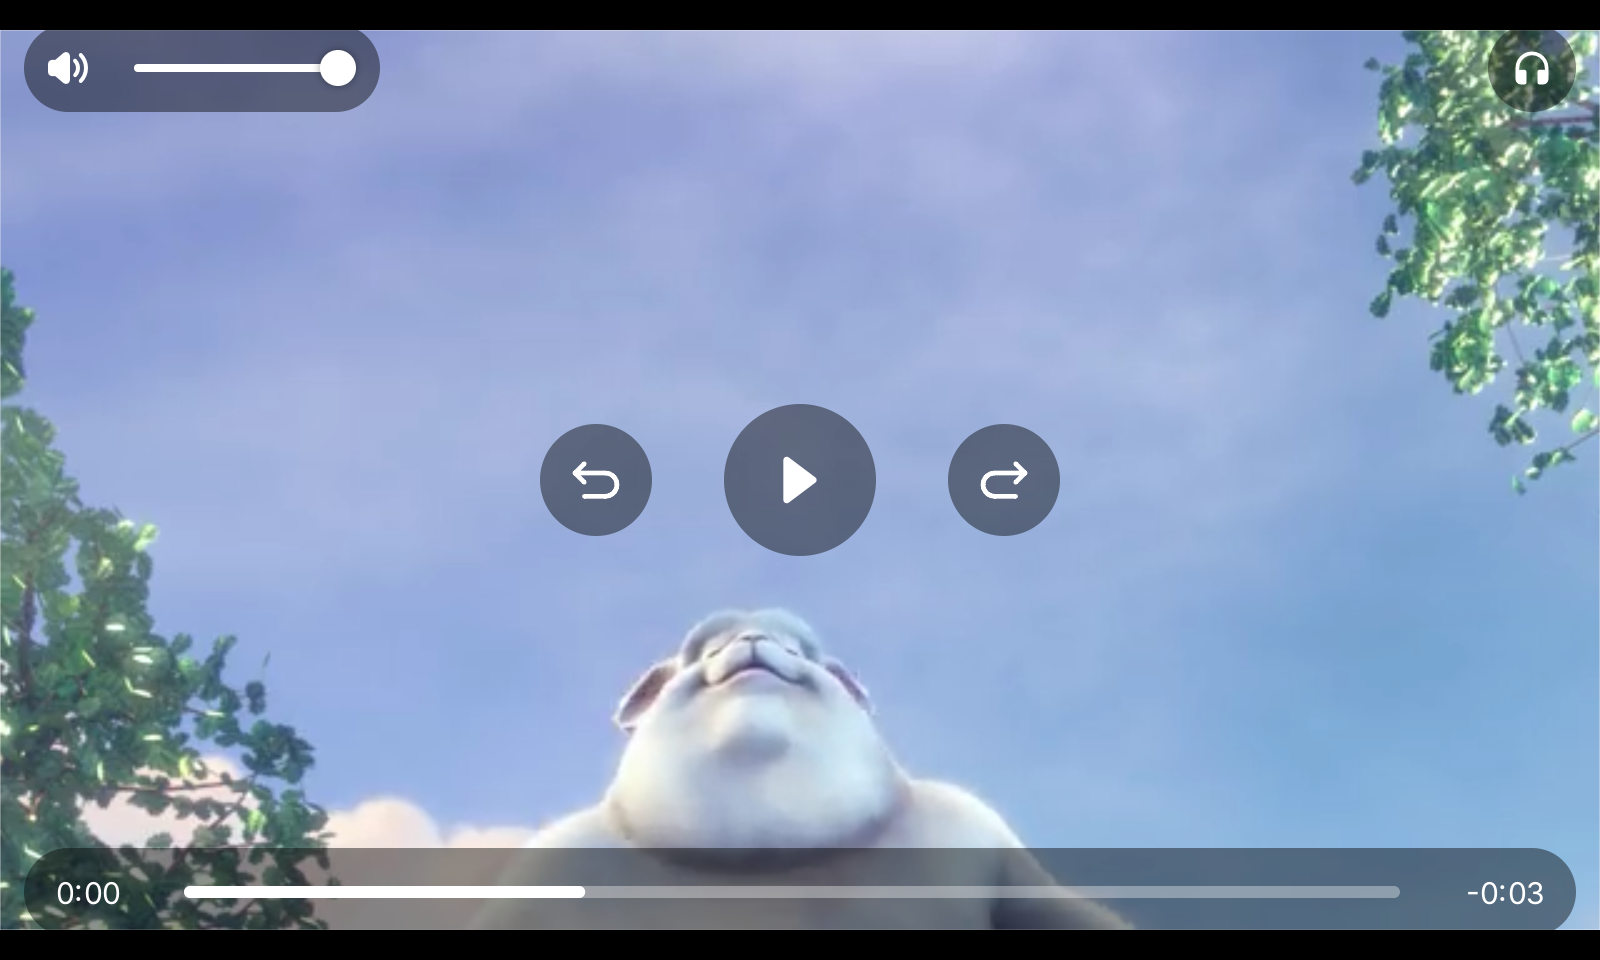
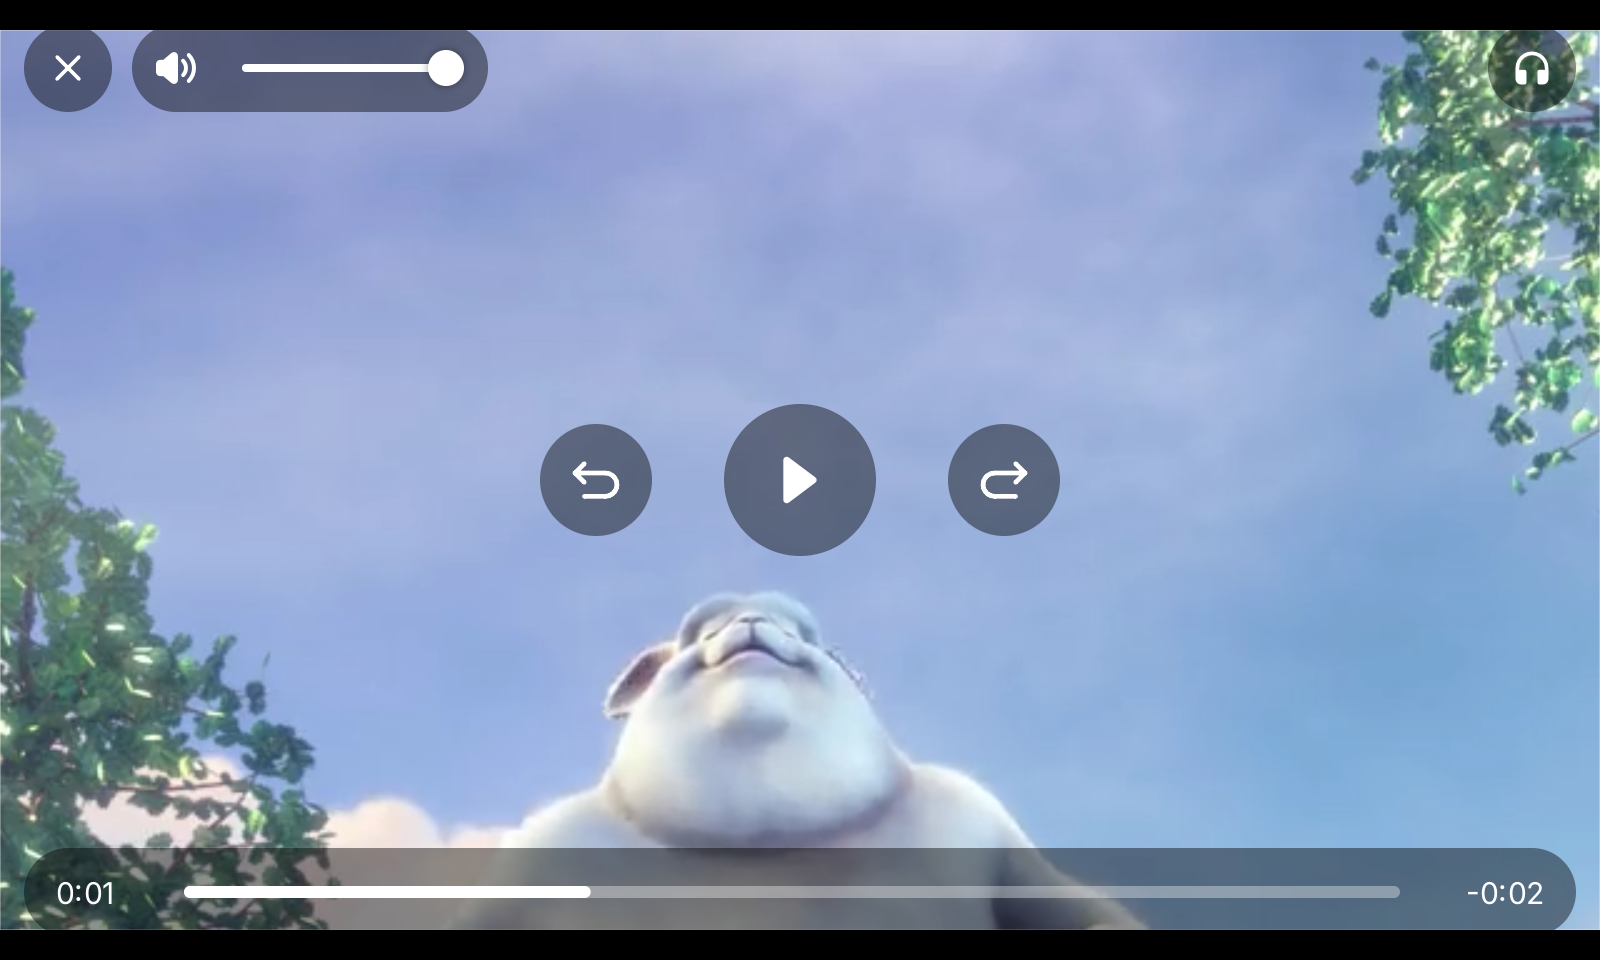
feat(example-video): choose the video in the file picker
The example played a path relative to the repository and so only ran
from a checkout. It now opens with the file picker on the home
directory, or on -dir, listing the videos in it; the close button of
the player goes back there. -sample plays the embedded sample clip,
-file one video directly. A video that cannot be opened is reported
above the picker.

diff --git a/cmd/example-video/main.go b/cmd/example-video/main.go
@@ -2,23 +2,28 @@
 // ui/videoplayer, full window: the program to try on a Raspberry Pi with a
 // five or seven inch touch panel.
 //
-//	go run ./cmd/example-video                        # the clip in video/testdata
-//	go run ./cmd/example-video -file movie.mp4 -hw    # your own, HEVC in hardware on a Pi 5
+//	go run ./cmd/example-video                        # choose a video in your home directory
+//	go run ./cmd/example-video -sample                # the short clip gift brings along
+//	go run ./cmd/example-video -file movie.mp4 -hw    # this one, HEVC in hardware on a Pi 5
+//	go run ./cmd/example-video -dir /media/usb        # choose one on a stick
 //	go run ./cmd/example-video -width 800 -height 480 # the size of a five inch panel
 //
 // It needs the FFmpeg libraries at run time, still without cgo: they are on
 // Raspberry Pi OS already, and Homebrew's ffmpeg brings them to macOS.
 //
-// Tap the picture to show or hide the controls. The window draws straight
-// into the framebuffer (backend.Config.DirectToScreen), which is what lets a
-// Raspberry Pi 5 show full HD at 60 frames a second; see the project plan,
-// section 25.
+// Without -file or -sample it opens with the file picker of ui/filepicker,
+// which lists the videos below -dir, your home directory by default. Tap the
+// picture to show or hide the controls; the close button at their top left
+// goes back to the picker. The window draws straight into the framebuffer
+// (backend.Config.DirectToScreen), which is what lets a Raspberry Pi 5 show
+// full HD at 60 frames a second; see the project plan, section 25.
 package main
 
 import (
 	"flag"
 	"fmt"
 	"os"
+	"path/filepath"
 	"time"
 
 	eb "github.com/hajimehoshi/ebiten/v2"
@@ -26,13 +31,20 @@ import (
 	"github.com/worldiety/gift"
 	backend "github.com/worldiety/gift/backend/ebiten"
 	"github.com/worldiety/gift/internal/example"
+	"github.com/worldiety/gift/internal/sampleclip"
 	"github.com/worldiety/gift/ui"
+	"github.com/worldiety/gift/ui/filepicker"
 	"github.com/worldiety/gift/ui/videoplayer"
 	"github.com/worldiety/gift/video"
 )
 
+// videoExtensions are the files the picker offers.
+var videoExtensions = []string{".mp4", ".m4v", ".mov", ".mkv", ".webm", ".avi", ".ts", ".mts", ".mpg", ".mpeg"}
+
 func main() {
-	file := flag.String("file", "video/testdata/bbb.mp4", "the video to play")
+	file := flag.String("file", "", "the video to play; without it, and without -sample, a file picker opens")
+	sample := flag.Bool("sample", false, "play the short clip gift brings along")
+	dir := flag.String("dir", "", "the directory the file picker shows; the default is your home directory")
 	hw := flag.Bool("hw", false, "decode in hardware where there is a decoder, HEVC on a Raspberry Pi 5")
 	loop := flag.Bool("loop", true, "start over at the end")
 	width := flag.Int("width", 1280, "window width")
@@ -45,20 +57,28 @@ func main() {
 	if err := example.LoadFont(); err != nil {
 		fail(err)
 	}
-	p, err := video.Open(*file, video.Options{HW: *hw, Loop: *loop})
-	if err != nil {
-		fail(err)
+	start := *file
+	if *sample {
+		cache, err := os.UserCacheDir()
+		if err != nil {
+			cache = os.TempDir()
+		}
+		if start, err = sampleclip.Path(filepath.Join(cache, "gift", "video")); err != nil {
+			fail(err)
+		}
 	}
-	defer p.Close()
-	p.Play()
+	root := *dir
+	if root == "" {
+		home, err := os.UserHomeDir()
+		if err != nil {
+			fail(err)
+		}
+		root = home
+	}
 
-	// The player is the root and not the content of a ui.Window: the
-	// window would fill the screen with its background under the picture,
-	// a full screen pass a Raspberry Pi pays for in every frame.
-	root := func(ctx *gift.Context) gift.View {
-		return videoplayer.New(p).AutoHide(*autoHide)
-	}
-	app := gift.New(gift.Options{Root: root})
+	s := &screen{root: root, opts: video.Options{HW: *hw, Loop: *loop}, autoHide: *autoHide}
+	app := gift.New(gift.Options{Root: s.view})
+	s.path = start
 	ui.SetTheme(app, ui.DarkTheme())
 	if *full {
 		// gift's backend has no option for it; Ebitengine's own call is
@@ -75,10 +95,78 @@ func main() {
 	if *stats {
 		report(&cfg)
 	}
-	err = backend.Run(app, cfg)
+	err := backend.Run(app, cfg)
+	s.close()
 	if err != nil {
 		fail(err)
 	}
+}
+
+// screen is the one screen of the program: the picker while no video is
+// open, the player while one is.
+type screen struct {
+	root     string
+	opts     video.Options
+	autoHide time.Duration
+
+	// path is the video to play, empty for the picker; player is it opened,
+	// and failed what went wrong opening the last one.
+	path   string
+	player *video.Player
+	failed string
+}
+
+func (s *screen) view(ctx *gift.Context) gift.View {
+	// The video is chosen and opened outside of any state: the screen is
+	// rebuilt through this one state when it changes.
+	gen := ctx.State("gen", 0)
+	ctx.Read(gen)
+	changed := func() { gen.Set(gen.Get() + 1) }
+
+	if s.path != "" && s.player == nil {
+		p, err := video.Open(s.path, s.opts)
+		if err != nil {
+			s.failed = filepath.Base(s.path) + ": " + err.Error()
+			s.path = ""
+		} else {
+			p.Play()
+			s.player, s.failed = p, ""
+		}
+	}
+	if s.player != nil {
+		// The player is the root and not the content of a ui.Window: the
+		// window would fill the screen with its background under the
+		// picture, a full screen pass a Raspberry Pi pays for in every
+		// frame.
+		return videoplayer.New(s.player).AutoHide(s.autoHide).OnClose(func() {
+			s.close()
+			changed()
+		})
+	}
+
+	picker := filepicker.New(os.DirFS(s.root), func(paths []string) {
+		s.path = filepath.Join(s.root, filepath.FromSlash(paths[0]))
+		changed()
+	}, nil).
+		Title("Choose a video").
+		RootLabel(filepath.Base(s.root)).
+		Extensions(videoExtensions...)
+	content := []gift.View{picker.Flex(1)}
+	if s.failed != "" {
+		content = append([]gift.View{
+			ui.Text(s.failed).Foreground(ui.ColorDanger).MaxLines(2).Padding(12),
+		}, content...)
+	}
+	return ui.Window(ui.VStack(content...).Flex(1))
+}
+
+// close closes the player, if one is open, and goes back to the picker.
+func (s *screen) close() {
+	if s.player != nil {
+		s.player.Close()
+		s.player = nil
+	}
+	s.path = ""
 }
 
 // report prints, every five seconds, the frames drawn and the video

diff --git a/docs/capture/main.go b/docs/capture/main.go
@@ -95,7 +95,7 @@ var exampleShots = []exampleShot{
 		{"op":"pointerUp","x":500,"y":340},
 		{"op":"waitFrames","frames":60}
 	]}`},
-	{Name: "example-video", Args: []string{"-width", "800", "-height", "480", "-autohide", "0", "-loop=false"}, Settle: 20, Input: `{"steps":[
+	{Name: "example-video", Args: []string{"-sample", "-width", "800", "-height", "480", "-autohide", "0", "-loop=false"}, Settle: 20, Input: `{"steps":[
 		{"op":"waitFrames","frames":60},
 		{"op":"tap","x":400,"y":240},
 		{"op":"waitFrames","frames":10}

diff --git a/docs/gift.dev/content/docs/examples/example-video/index.md b/docs/gift.dev/content/docs/examples/example-video/index.md
@@ -5,7 +5,9 @@ weight: 5
 
 This example plays a video with sound full window, with the touch controls of the
 [video player](../../components/media/video-player/). It is the program to try on a Raspberry Pi with a five or
-seven inch touch panel: the window below has the size of a five inch panel, 800 by 480 pixels.
+seven inch touch panel: the window below has the size of a five inch panel, 800 by 480 pixels. It opens with the
+[file picker](../../components/dialogs/file-picker/) on your home directory, listing the videos in it, and the close
+button of the player goes back there.
 
 {{< gallery-shot alt="A video of a rabbit filling the window, with round play, back and forward buttons, a volume slider, a headphones button and a position bar" >}}
 
@@ -19,19 +21,27 @@ You need the FFmpeg libraries at run time. Raspberry Pi OS has them; on macOS, r
 checkout of the [repository](https://github.com/worldiety/gift):
 
 ```bash
-go run ./cmd/example-video                          # the three second clip in video/testdata
-go run ./cmd/example-video -file film.mp4 -hw       # your own, HEVC in hardware on a Raspberry Pi 5
+go run ./cmd/example-video                          # choose a video in your home directory
+go run ./cmd/example-video -sample                  # the three second clip gift brings along
+go run ./cmd/example-video -dir /media/usb          # choose one on a USB stick
+go run ./cmd/example-video -file film.mp4 -hw       # this one, HEVC in hardware on a Raspberry Pi 5
 go run ./cmd/example-video -width 1024 -height 600  # a seven inch panel
 ```
+
+The sample clip is embedded in the program, so `-sample` works wherever it runs, on a Raspberry Pi as on your
+desktop, without a path into the repository.
 
 `-fullscreen` fills the screen, `-autohide 0` keeps the controls, `-loop=false` stops at the end, and `-stats`
 prints the frame rate and how the video was drawn every five seconds.
 
 ## What to try
 
+- Pick a video in the file picker: tap a folder to open it, a video to select it, then *Open*. Other files are
+  listed but cannot be picked.
 - Tap the picture to show or hide the controls. While the video plays, they hide by themselves after three seconds.
+- The close button at the top left of the controls closes the video and goes back to the picker.
 - Drag along the position bar. The picture follows your finger, and the video goes on where you lift it.
-- Open the headphones menu and switch between the English stereo and the German 5.1 track of the clip.
+- Open the headphones menu of the sample clip and switch between its English stereo and its German 5.1 track.
 
 ## Code
 

diff --git a/docs/gift.dev/content/docs/components/dialogs/file-picker/index.md b/docs/gift.dev/content/docs/components/dialogs/file-picker/index.md
@@ -119,4 +119,4 @@ package.
 - [Kiosks](../../../concepts/kiosks/): why gift brings its own picker.
 - [Concurrency](../../../concepts/concurrency/): how work off the UI goroutine reaches the screen.
 - [Testing](../../../concepts/testing/): driving a screen with `gifttest`; hand the picker an `fstest.MapFS` there.
-- [Kitchen sink](../../../examples/example-kitchensink/): the picker in a complete application.
+- [Video example](../../../examples/example-video/): the picker that chooses the video to play.

diff --git a/docs/screenshots/README.md b/docs/screenshots/README.md
@@ -29,7 +29,7 @@ curl -fsS -X POST http://127.0.0.1:7391/theme -d '{"mode":"dark"}'
 window at the size of a five inch panel, the clip paused and the audio track menu open:
 
 ```sh
-go run -tags giftauto ./cmd/example-video -width 800 -height 480 -autohide 0
+go run -tags giftauto ./cmd/example-video -sample -width 800 -height 480 -autohide 0
 # tap the play button, then the headphones button, through POST /input
 curl -fsS 'http://127.0.0.1:7391/screenshot?settle=3' -o docs/screenshots/video.png
 ```
